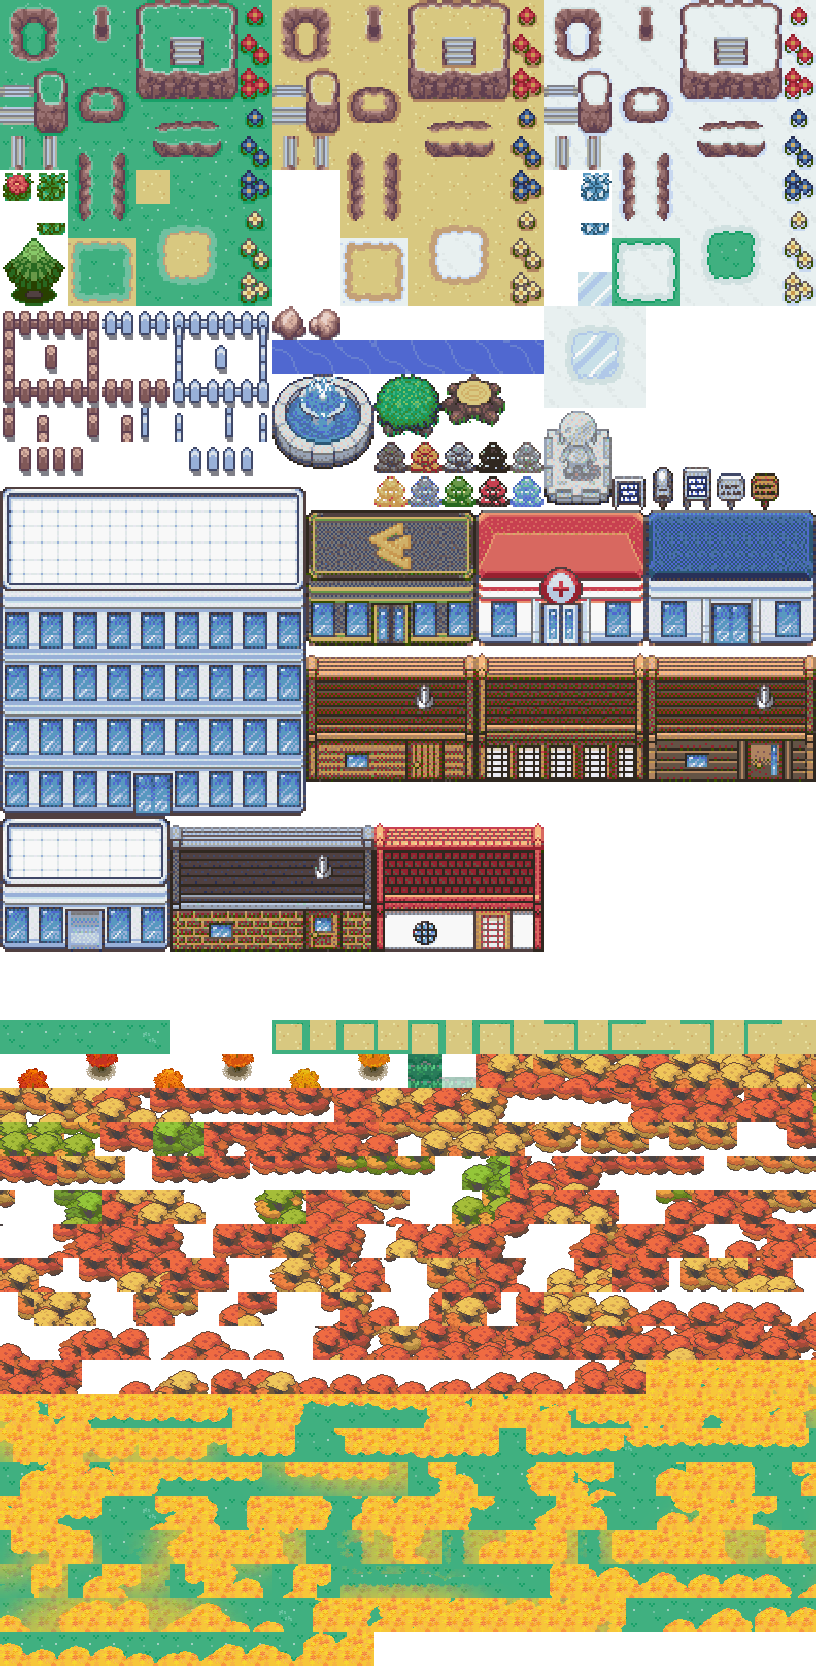
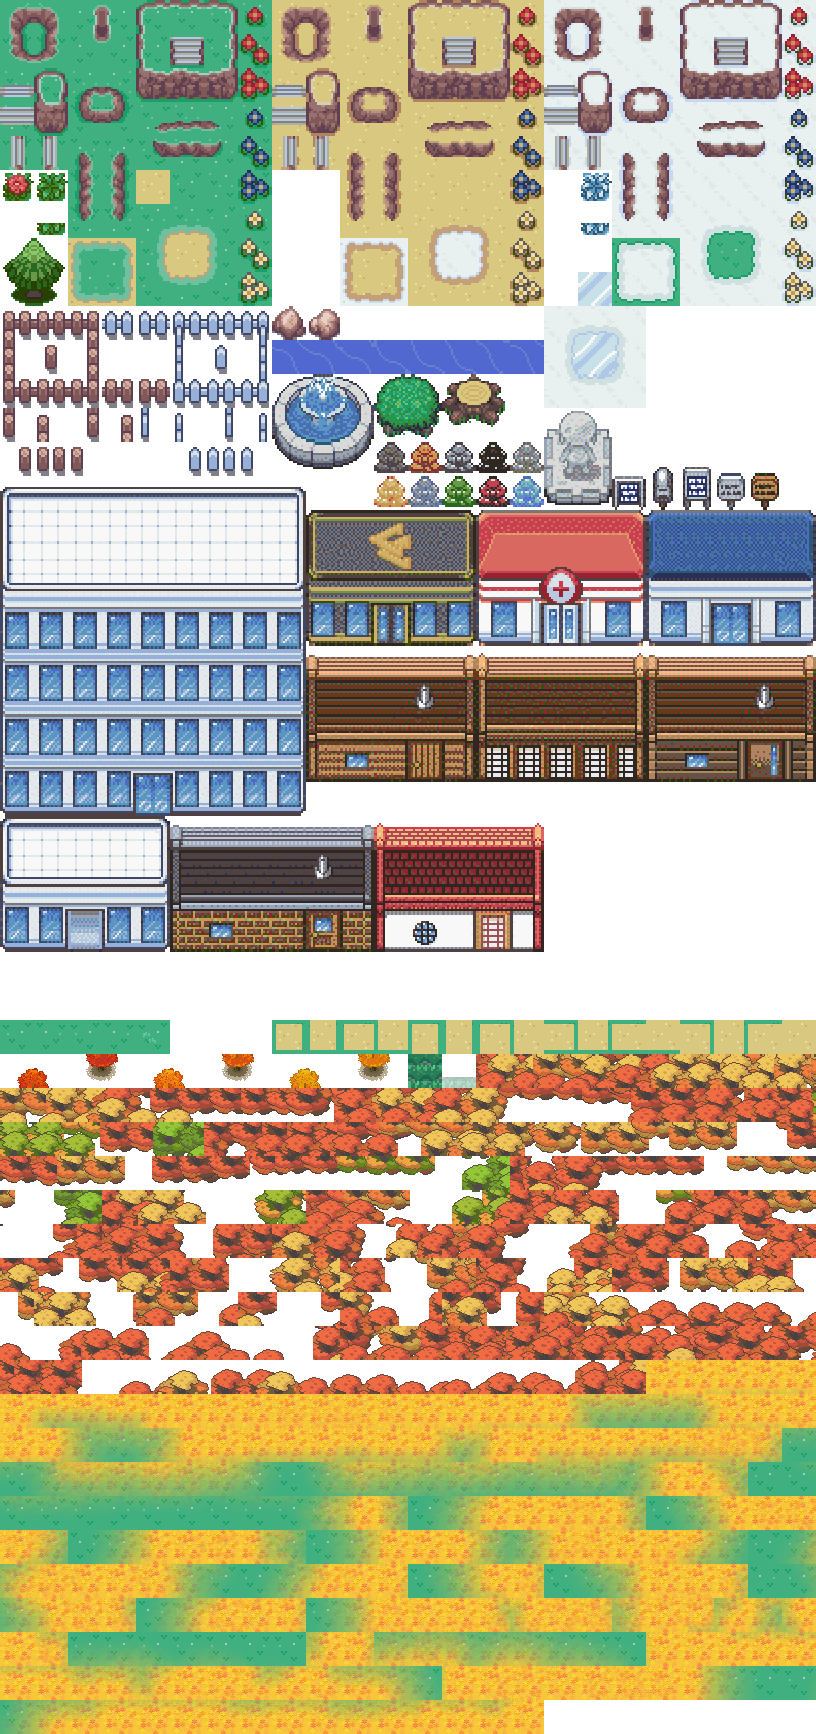
feat: 나무 거리에 따른 단풍 바닥 농도 적용

diff --git a/scripts/poke-lounge/generate-autumn-map.py b/scripts/poke-lounge/generate-autumn-map.py
@@ -6,7 +6,7 @@ import runpy
 from random import Random
 from pathlib import Path
 from collections import deque
-from PIL import Image, ImageChops, ImageDraw, ImageFilter
+from PIL import Image, ImageChops, ImageFilter
 from ndspy import color
 from ndspy.narc import NARC
 from ndspy.rom import NintendoDSRom
@@ -135,53 +135,74 @@ for y in range(H):
             mask=sum(bit for bit,dx,dy in ((1,0,-1),(2,1,0),(4,0,1),(8,-1,0)) if (x+dx,y+dy) in paths)
             below.append(729+mask)
         else:below.append(724 if (x*11+y*7)%19<3 else (725 if (x*7+y*5)%37==0 else 721))
-# Use the ROM leaf carpet beneath the outer woodland, with its original ragged edge pieces.
+# Use the ROM leaf carpet and transparent leaves over the original ground.
 leaf_textures,leaf_palettes=field['decode_member'](bytes(archive.files[88]))
-leaves={name:leaf_textures[name].renderAsImage(leaf_palettes[name+'_pl']).convert('RGBA') for name in ('momi','momi_load_','momi_loada','momi_loadb')}
-leaf_edges={}
-for direction,name,box in ((8,'momi_loada',(16,0,32,32)),(2,'momi_loada',(0,0,16,32)),(1,'momi_loadb',(0,16,32,32)),(4,'momi_loadb',(0,0,32,16))):
-    edge=leaves[name].copy()
-    edge.putalpha(Image.frombytes('L',edge.size,bytes(255 if r>g*.95 and r>140 and b<r*.7 else 0 for r,g,b,a in edge.getdata())))
-    edge.paste((0,0,0,0),box)
-    assert edge.getbbox() and edge.getchannel('A').getextrema()==(0,255)
-    leaf_edges[direction]=edge
+leaves={name:leaf_textures[name].renderAsImage(leaf_palettes[name+'_pl']).convert('RGBA') for name in ('momi','momi_load_')}
 forest_cells={(i%W,i//W) for i,gid in enumerate(world) if gid>=759}
-patches=Image.new('L',canopy.size)
-patch_draw=ImageDraw.Draw(patches)
-for cx,cy,rx,ry in ((300,36,130,60),(35,520,64,125),(365,748,105,64),(1250,445,55,115)):
-    patch_draw.ellipse((cx-rx,cy-ry,cx+rx,cy+ry),fill=185)
-patches=patches.filter(ImageFilter.GaussianBlur(14))
+# Match the green strips marked in the reference, keeping paths and encounter grass open.
+marked_leaves=(rect(2,2,10,3)|rect(2,3,4,12)|rect(16,1,27,3)|rect(16,3,18,9)
+               |rect(27,1,38,4)|rect(37,3,38,9)|rect(10,20,19,23)|rect(16,23,28,24))-paths-grass
+# Blend the native carpet into green ground, keeping its leaf pixels sharp.
+leaf_rng=Random(1712)
+scattered_leaves=Image.new('RGBA',canopy.size)
+leaf_patches=((104,204,58,100),(240,82,90,40),(574,90,125,45),(560,215,40,65),
+              (1020,100,165,48),(430,702,108,58),(780,752,145,36),
+              (66,455,66,215),(1230,440,55,190))
 canopy_alpha=canopy.getchannel('A')
-floor_mask=ImageChops.lighter(canopy_alpha,ImageChops.multiply(canopy_alpha.filter(ImageFilter.MaxFilter(49)),patches))
-scatter_mask=ImageChops.multiply(ImageChops.subtract(canopy_alpha.filter(ImageFilter.MaxFilter(65)),canopy_alpha.filter(ImageFilter.MaxFilter(49))),patches)
+forest_core=canopy_alpha.filter(ImageFilter.MaxFilter(25)).filter(ImageFilter.MinFilter(25))
+# A small distance field gives every canopy the same smooth, outward opacity falloff.
+distance_scale=4
+dw,dh=W*S//distance_scale,H*S//distance_scale
+core_samples=forest_core.resize((dw,dh),Image.Resampling.BOX)
+distances=[0.0 if a else float('inf') for a in core_samples.getdata()]
+for rows,columns,neighbors in ((range(dh),range(dw),((-1,0,1),(0,-1,1),(-1,-1,math.sqrt(2)),(1,-1,math.sqrt(2)))),
+                               (range(dh-1,-1,-1),range(dw-1,-1,-1),((1,0,1),(0,1,1),(-1,1,math.sqrt(2)),(1,1,math.sqrt(2))))):
+    for y in rows:
+        for x in columns:
+            i=y*dw+x
+            if distances[i]==0:continue
+            for dx,dy,cost in neighbors:
+                if 0<=x+dx<dw and 0<=y+dy<dh:
+                    distances[i]=min(distances[i],distances[(y+dy)*dw+x+dx]+cost)
+falloff=[round(255*(1-d/64)**1.5) for d in range(65)]
+assert falloff[0]==255 and falloff[-1]==0 and all(a>=b for a,b in zip(falloff,falloff[1:]))
+soft_floor=Image.frombytes('L',(dw,dh),bytes(falloff[min(64,round(d*distance_scale))] for d in distances))
+soft_floor=soft_floor.resize(canopy.size,Image.Resampling.BILINEAR)
+scatter_count=0
+for x,y in sorted(marked_leaves|forest_cells):
+    clustered=any(((x*S+16-cx)/rx)**2+((y*S+16-cy)/ry)**2<1 for cx,cy,rx,ry in leaf_patches)
+    if leaf_rng.random()>(.34 if clustered else .035):continue
+    stamp=leaves['momi_load_']
+    if leaf_rng.random()<.5:stamp=stamp.transpose(Image.Transpose.FLIP_LEFT_RIGHT)
+    scattered_leaves.alpha_composite(stamp,(x*S+leaf_rng.randrange(-24,9),y*S+leaf_rng.randrange(-24,9)))
+    scatter_count+=1
+scatter_alpha=scattered_leaves.getchannel('A').point(lambda a:round(a*.42))
+scattered_leaves.putalpha(ImageChops.multiply(scatter_alpha,soft_floor))
+assert scattered_leaves.getchannel('A').getextrema()[1]<=107
 baked_tiles=list(forest_tiles)
 floor_cache={}
 leaf_cells=[]
 for y in range(H):
     for x in range(W):
         p=(x,y)
-        if p in paths or p in grass or world[y*W+x] and p not in forest_cells:continue
-        mask=sum(bit for bit,dx,dy in ((1,0,-1),(2,1,0),(4,0,1),(8,-1,0)) if (x+dx,y+dy) in forest_cells)
+        if p in paths or p in grass or world[y*W+x] and p not in forest_cells|marked_leaves:continue
         box=(x*S,y*S,(x+1)*S,(y+1)*S)
-        coverage=floor_mask.crop(box)
-        scattered=scatter_mask.crop(box)
-        if not coverage.getbbox() and not scattered.getbbox():continue
+        coverage=soft_floor.crop(box)
+        scatter=scattered_leaves.crop(box)
+        if p in forest_cells:
+            coverage=ImageChops.lighter(coverage,forest_core.crop(box))
+        if not coverage.getbbox() and not scatter.getbbox():continue
         gid=below[y*W+x]-1;sx=gid%24*34+1;sy=gid//24*34+1
         tile=atlas.crop((sx,sy,sx+32,sy+32))
-        if p in forest_cells:
-            carpet=leaves['momi'].copy();carpet.putalpha(coverage);tile.alpha_composite(carpet)
-        else:
-            for bit,edge in leaf_edges.items():
-                if mask & bit:
-                    fringe=edge.copy();fringe.putalpha(ImageChops.multiply(edge.getchannel('A'),coverage));tile.alpha_composite(fringe)
-        scatter=leaves['momi_load_'].crop((x%2*32,y%2*32,x%2*32+32,y%2*32+32))
-        scatter.putalpha(ImageChops.multiply(scatter.getchannel('A'),scattered));tile.alpha_composite(scatter)
+        carpet=leaves['momi'].copy();carpet.putalpha(coverage);tile.alpha_composite(carpet)
+        tile.alpha_composite(scatter)
         pixels=tile.tobytes()
         if pixels not in floor_cache:
             floor_cache[pixels]=759+len(baked_tiles)
             baked_tiles.append(tile)
         below[y*W+x]=floor_cache[pixels]
         leaf_cells.append(p)
+assert forest_cells <= set(leaf_cells) and not set(leaf_cells) & (paths|grass)
 base_atlas=atlas.crop((0,0,816,1088))
 atlas=Image.new('RGBA',(816,math.ceil((758+len(baked_tiles))/24)*34))
 atlas.paste(base_atlas,(0,0))
@@ -215,7 +236,7 @@ assert {(i%W,i//W) for i,gid in enumerate(world) if gid in collision_gids} == co
 source_path=ROOT/'apps/web/public/assets/poke-lounge/world/autumn-forest-source.json'
 source=json.loads(source_path.read_text())
 source.update(tileCount=atlas.width//34*(atlas.height//34))
-source['forestFloor']={'textures':['a/0/4/4#88 momi','momi_load_','momi_loada','momi_loadb'],'tiles':len(floor_cache),'cells':len(leaf_cells),'placement':'Native leaf carpet follows canopy silhouettes with original leaf-edge pieces and a thin scattered-leaf fringe; paths and encounter grass excluded.'}
+source['forestFloor']={'textures':['a/0/4/4#88 momi','momi_load_'],'tiles':len(floor_cache),'cells':len(leaf_cells),'forestCells':len(forest_cells),'scatterPatches':scatter_count,'fadeDistancePixels':64,'placement':'Native leaf ground at 100% beneath canopy groups, fading by distance to transparent over 64px; scattered leaves share the same falloff at 42% strength. Paths and encounter grass excluded.'}
 source['bakedForest']={'seed':1711,'canopies':len(trees),'tileRange':[759,758+len(forest_tiles)],'palette':'native tree_en2..5 / _re palettes','placement':'Overlapping native canopies on a continuous outer band, with an uneven inner contour and grouped autumn colors; no resized clusters or leaf piles.'}
 source_path.write_text(json.dumps(source,ensure_ascii=False,indent=2)+'\n')
 MAP_PATH.write_text(json.dumps(map_data,ensure_ascii=False,indent=2)+'\n')
